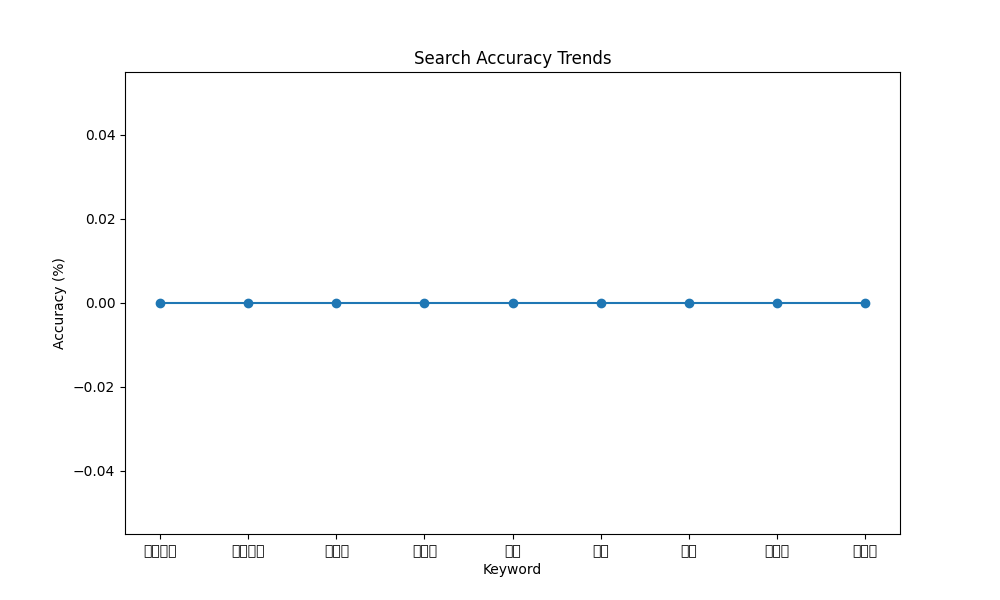
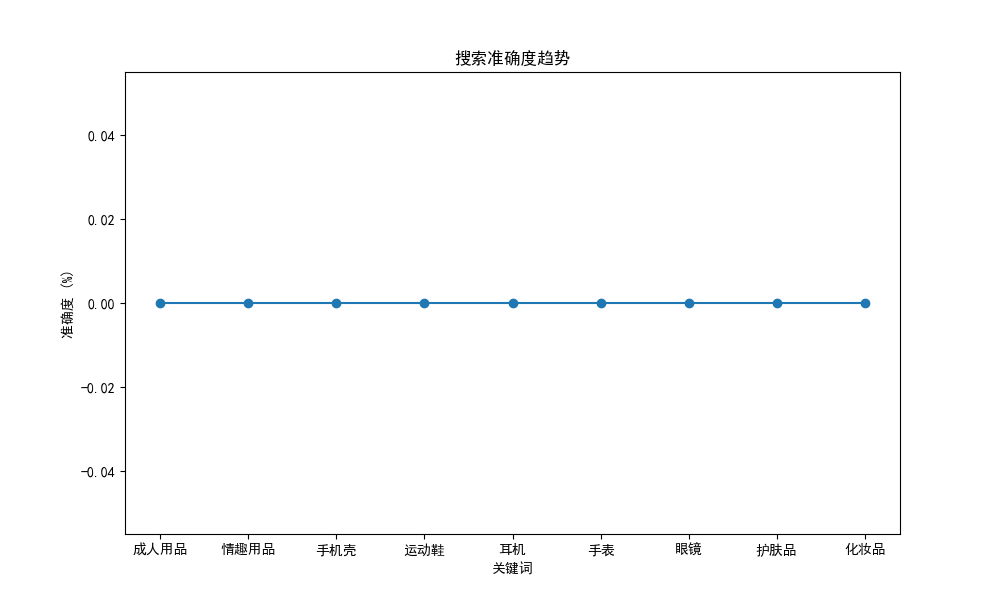
apdute

diff --git a/src/analyzers/trend_analyzer.py b/src/analyzers/trend_analyzer.py
@@ -7,6 +7,9 @@ import os
 logging.basicConfig(level=logging.INFO, format='%(asctime)s - %(levelname)s - %(message)s')
 logger = logging.getLogger(__name__)
 
+plt.rcParams['font.sans-serif'] = ['SimHei']  # 使用宋体，支持中文
+plt.rcParams['axes.unicode_minus'] = False  # 解决负号显示问题
+
 class TrendAnalyzer:
     def __init__(self):
         self.data = {}
@@ -32,9 +35,9 @@ class TrendAnalyzer:
         df = pd.DataFrame(trends).T
         plt.figure(figsize=(10, 6))
         df["accuracy_trend"].plot(kind='line', marker='o')
-        plt.title("Search Accuracy Trends")
-        plt.xlabel("Keyword")
-        plt.ylabel("Accuracy (%)")
+        plt.title("搜索准确度趋势")
+        plt.xlabel("关键词")
+        plt.ylabel("准确度 (%)")
         plt.savefig(os.path.join("logs", "accuracy_trend.png"))
         plt.close()
         logger.info("Trend plot generated")

diff --git a/src/main.py b/src/main.py
@@ -34,4 +34,4 @@ def main():
 if __name__ == "__main__":
     main()  # 临时直接运行main
     # 如果需要调度，调用run_daily
-    run_daily(main)
+    # run_daily(main)

diff --git a/README.md b/README.md
@@ -7,3 +7,42 @@
 
 ## 使用
 运行：`python src/main.py`
+
+
+**
+search_monitor_api/
+├── config/                  # 配置文件，存放项目设置
+│   ├── __init__.py          # 标记为Python包，导出配置函数
+│   ├── load_config.py       # 读取platform_config.yaml的函数
+│   └── platform_config.yaml  # YAML配置文件，定义平台URL、API端点、关键词等
+├── src/                     # 源代码，核心逻辑
+│   ├── __init__.py          # 标记为Python包，导出所有模块
+│   ├── collectors/          # 采集模块，负责API调用获取搜索结果
+│   │   ├── __init__.py      # 标记为Python包，导出ApiCollector
+│   │   └── api_collector.py  # ApiCollector类，调用API采集数据
+│   ├── processors/          # 处理模块，评估搜索准确度和质量
+│   │   ├── __init__.py      # 标记为Python包，导出AccuracyProcessor
+│   │   └── accuracy_processor.py  # AccuracyProcessor类，处理数据
+│   ├── analyzers/           # 分析模块，分析趋势并生成图表
+│   │   ├── __init__.py      # 标记为Python包，导出TrendAnalyzer
+│   │   └── trend_analyzer.py  # TrendAnalyzer类，计算趋势、绘图
+│   ├── outputs/             # 输出模块，生成报告
+│   │   ├── __init__.py      # 标记为Python包，导出ReportGenerator
+│   │   └── report_generator.py  # ReportGenerator类，生成CSV/HTML报告
+│   └── schedulers/          # 调度模块，定时运行任务
+│       ├── __init__.py      # 标记为Python包，导出run_daily
+│       └── task_scheduler.py  # TaskScheduler类，使用apscheduler定时运行main
+├── tests/                   # 单元测试，确保模块稳定
+│   ├── __init__.py          # 标记为Python包，组织测试
+│   ├── test_collectors.py   # 测试ApiCollector
+│   ├── test_processors.py   # 测试AccuracyProcessor
+│   ├── test_analyzers.py    # 测试TrendAnalyzer
+│   └── test_outputs.py      # 测试ReportGenerator
+├── docs/                    # 文档，记录设计和说明
+│   └── design.md            # Markdown文档，描述架构
+├── logs/                    # 日志，运行时生成文件（如accuracy_trend.png、search_metrics.csv）
+├── venv/                    # 虚拟环境，隔离Python依赖（忽略Git）
+├── search_monitor_api.code-workspace  # Cursor工作区文件，记录项目配置
+├── README.md                # 项目说明，描述功能、安装、运行
+└── requirements.txt         # 依赖列表，记录Python包
+**
